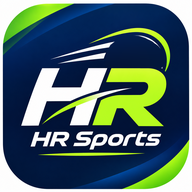
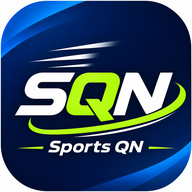
Add files via upload

diff --git a/index.html b/index.html
@@ -7,8 +7,8 @@
 <meta name="mobile-web-app-capable" content="yes">
 <meta name="apple-mobile-web-app-capable" content="yes">
 <meta name="apple-mobile-web-app-status-bar-style" content="black-translucent">
-<meta name="apple-mobile-web-app-title" content="HR SPORTS">
-<title>HR SPORTS</title>
+<meta name="apple-mobile-web-app-title" content="SPORT QN">
+<title>SPORTS QUẢNG NINH 5</title>
 <link rel="manifest" href="manifest.json">
 <link rel="icon" href="app-192.png">
 <link rel="apple-touch-icon" href="app-192.png">
@@ -23,10 +23,10 @@
 </style>
 </head>
 <body>
-<div id="load"><img src="app-192.png" alt=""><div>Đang mở HR SPORTS…</div></div>
-<iframe id="app" title="HR SPORTS" allow="fullscreen; screen-wake-lock; clipboard-read; clipboard-write; autoplay; camera; geolocation" allowfullscreen></iframe>
+<div id="load"><img src="app-192.png" alt=""><div>Đang mở SPORTS QUẢNG NINH 5…</div></div>
+<iframe id="app" title="SPORTS QUẢNG NINH 5" allow="fullscreen; screen-wake-lock; clipboard-read; clipboard-write; autoplay; camera; geolocation" allowfullscreen></iframe>
 <div id="tip"><button class="x" type="button" aria-label="Đóng" onclick="this.parentNode.style.display='none'">✕</button>
-  Để mở <b>full màn hình</b> như app: bấm <b>⋮</b> (góc trên Chrome) › <b>Cài đặt ứng dụng</b> / <b>Thêm vào màn hình chính</b>, rồi mở bằng biểu tượng <b>HR SPORTS</b>.
+  Để mở <b>full màn hình</b> như app: bấm <b>⋮</b> (góc trên Chrome) › <b>Cài đặt ứng dụng</b> / <b>Thêm vào màn hình chính</b>, rồi mở bằng biểu tượng <b>SPORT QN</b>.
   <br><small>iPhone: mở bằng Safari › nút Chia sẻ › Thêm vào MH chính.</small><br><button id="fs" type="button">⛶ Toàn màn hình ngay (lần này)</button></div>
 <script src="config.js"></script>
 <script>

diff --git a/config.js b/config.js
@@ -2,4 +2,4 @@
    Dán link ứng dụng web của Apps Script (Triển khai › Quản lý bản triển khai › URL ứng dụng web),
    dạng: https://script.google.com/macros/s/AKfy..../exec
    Mỗi lần "Phiên bản mới" trong Apps Script thì link /exec GIỮ NGUYÊN -> không phải sửa lại file này. */
-window.APP_URL = 'https://script.google.com/macros/s/AKfycbyhtsYSyPwVvclp-Vza9vcB4PS820i5NjAcJRtamjxfx-eJzcMDEDry9J17DxsOGcHu/exec';
+window.APP_URL = 'https://script.google.com/macros/s/AKfycbxxaDZC3hkOF94gCxPnJPSSHQTrRB49JvTMpZ14v3NdJ47cSQvTqkmg-Oz8GibHlrOAzA/exec';
